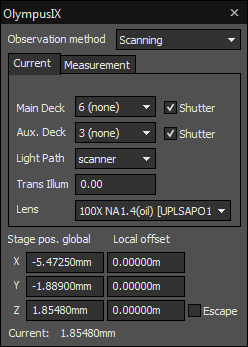
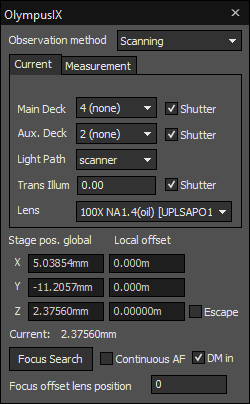
Updated Live Dialogs
* rewrote the Live Dialogs page, introduced some references
* updated screenshots, added screenshot for NikonTi live dialog

diff --git a/docs/hardware/live_dialogs.rst b/docs/hardware/live_dialogs.rst
@@ -5,9 +5,12 @@ Live Dialogs
 In Imspector most imaging settings/parameters may be adjusted in live dialogs including activity of devices as lasers and
 detectors, settings such as laser power or pinhole size and guiding activity along the measurement process such as time
 lapse measurements.
-Single live dialogs can simply be hidden by closing the corresponding live dialogs window! Every live dialog (in addition)
-can be re-opened by clicking on :menuselection:`Tab --> Windows --> Live Dialogs` (:ref:`fig_livedialogs`).
-If none of the live dialogs should be visible, all of them can be hidden using the :kbd:`TAB` button of the keyboard.
+
+Live dialogs can be closed individually and re-opened by opening the list in :menuselection:`Windows --> Live Dialogs` 
+from the main menu and choosing the corresponding dialogs from the list (:ref:`fig_livedialogs`). You can toggle the 
+visibility of all live dialogs (with the exception of the 'Stack display' live dialog) by pressing the :kbd:`TAB`
+button on the keyboard. Different layouts of live dialogs can be saved as workspaces and quickly restored by selecting 
+:menuselection:`Windows --> Save/Load Workspace` from the main menu.
 
 .. _fig_livedialogs:
 .. figure:: /images/hardware/live_dialogs.png
@@ -23,30 +26,36 @@ In the 'Experiment Control' live dialog (:ref:`fig_livedialog_control`) the basi
 
 - Type of scan (xy, yx, yz,xz, xt, xyt, xyz ...)
 - Scan 'Range' in X, Y, Z, T
-- Local and global offsets of the scanner i.e. the displacement from the central axis
-  A local offset (given in the upper half of the panel) applies only for a single measurement.
-  A global offset applies to all further measurements in addition to the local offsets.
+- Local and global offsets of the scanner i.e. the displacement from the central axis. A local offset (given in the 
+  upper half of the panel) applies only the current measurement. A global offset applies to all measurements 
+  in addition to the local offsets.
 - Pixel size ('Pix. Size') and the number of pixels ('# Pixel')
-- Line accumulation settings ('Line Accu')
-- Time steps ('T')
-  Here only consecutive time steps can be selected. For using time steps with breaks in between, the 'TimeLapse'
-  live dialog has to be used.
+- Number of scan lines to accumulate ('Line Accu')
+- Time steps ('T'): the T-axis in ExpControl allows for fast time-dependent scanning, i.e. for FCS measurements. 
+  This will only allow for consecutive time steps. If pauses in between the measurement steps or longer 
+  time scales, the `Time Lapse Live Dialog`_ has to be used.
 - The 'Orientation' parameters allow to change the orientation of the scan field: scan field rotation ('Rot'), tilting of
   the scan field ('Tilt') or rolling of the scan field ('Roll') may be applied.
-- 'Dwell Time'
+- 'Dwell Time' for the individual pixels (only applies if `'Pixel Steps'`__ is deactivated)
+
+__ `Lasers and Channels Live Dialog`_
 
 .. note::
-   The Line Frequency ('Line Freq') is given at the bottom right of the dialog. It may not be changed, but is
-   calculated from the scan parameters above.
+   The Line Frequency ('Line Freq') calculated from the scan parameters is given at the bottom right of the dialog. This is only an indicator 
+   and cannot be changed directly.
 
 **Check boxes**
 
-- 'Lock Aspect': If selected, the aspect ratio of the image ist locked (i.e. ranges).
-- 'Lock pixel Size': if selected, only the size of the pixels and the range may be changed. The # of pixels is adjusted
-  automatically.
-  Note that the range may be rounded, when the change is incompatible to size and range.
-- 'Square pixels': When selected, the pixel sized in x and y are kept being equal. Only one of them may be changed. The
-  other one is changed together with it.
+- 'Lock Aspect': If selected, the aspect ratio of the scan ranges is locked
+- 'Lock pixel Size': if selected, the pixel size will be kept constant and the resolution is adjusted on changes of either 
+  scan range of pixel size. If it is disabled, the resolution will be kept contant and the pixel size will be adjusted automatically instead.
+- 'Square pixels': When selected, the pixel sizes in x and y are kept equal.
+- 'Frame trigger': Allows the start of the measurement to be started on an external signal. The polarity of the signal can be setup in the 
+  :ref:`HardwareConfig`.
+- 'Use Autofocus': Enables the autofocus module of the microscope (if available)
+
+.. note::
+   The scan range may be rounded when the change is incompatible to pixel size and resolution.
 
 .. _fig_livedialog_control:
 .. figure:: /images/hardware/live_dialog_experimental_control.png
@@ -71,30 +80,28 @@ The measurement timing parameters as 'Elapsed Time' for the complete Scan, for t
 Lasers and Channels Live Dialog
 -------------------------------
 
-In the 'Lasers and Channels' live dialog (:ref:`fig_livedialog_lasers`) is one of the most important live dialogs. Here important settings on
-the channels, 'Detectors' and lasers are shown and can be modified. Furthermore the imaging modes 'Pixel Steps',
-'Line Steps', 'Pulse Steps' and 'Pulse Gates' can be activated.
+In the 'Lasers and Channels' live dialog (:ref:`fig_livedialog_lasers`) is one of the most important live dialogs. Here the user will configure 
+the detection channels and lasers used. Furthermore the advanced imaging modes 'Pixel Steps', 'Line Steps', 'Pulse Steps' and 'Pulse Gates' 
+can be activated.
 
 **Detectors**
 
-Detection channels can be activated in the check box on the left side ('Ch1', 'Ch2','Ch3','Ch4').
-In the drop-down menus, the different detectors (APDs/PMTs) can be selected and assigned to the (logical) detection channels.
-If PMT detectors are selected, the gain of the PMT may be adjusted.
-On the right side, further the RESCue mode can be activated.
-Note that up to four logical (detection) channels can be used.
+(Logical) Detection channels can be activated in the check box on the left side ('Ch1', 'Ch2', 'Ch3', 'Ch4'), and the corresponding detectors
+(APDs / PMTs) selected from the drop-down menu. If PMT detectors are selected, the gain of the PMT may be adjusted here. Note that up to four 
+logical (detection) channels can be used.
 
 **Lasers**
 
 In the middle of the live dialog, the excitation, STED and RESOLFT lasers ('L1', 'L2', 'L3', 'L4', 'L5', 'L6', 'L7', 'L8')
-can be activated. Further the power can be adjusted using the %-values on the right. For alignment purposes, the lasers
-can be continuously activated using the check box on the right. (This is only possible if the user is logged in as 'expert'.)
-Note that the %-values are calibrated to show a linear response.
+can be activated and their default powers adjusted using the %-values on the right. For alignment purposes, the lasers
+can be continuously activated using the check box on the right. (This is only possible if the user is logged in as Imspector admin.)
+Note that the %-values are calibrated to show a linear response in laser power.
 
 **Scan Options & Gating**
 
 On the bottom of this live dialog, following scan options can be selected:
-'Pulse Steps', 'Pixel Steps' , 'Line Steps'.
-Further the fluorescence time-gating for the different detection channels can be activated by selecting 'Pulse Gates'.
+'Pulse Steps', 'Pixel Steps' , 'Line Steps'. Further the fluorescence time-gating for the different detection channels can be activated by 
+selecting 'Pulse Gates'. Selecting an option will opens its configuration live dialog.
 
 .. _fig_livedialog_lasers:
 .. figure:: /images/hardware/live_dialog_lasers_channels.png
@@ -107,30 +114,32 @@ Microscope Control Live Dialogs
 -------------------------------
 
 Imspector is able to communicate with the microscope stands of several vendors and all of its motorized components.
-It is able to drive most functions of the microscopy body (:ref:`fig_livedialog_microscope`).
+It is able to drive most functions of the microscopy body (:ref:`fig_livedialog_microscopes`).
 Those functions include:
 
-- switching of the observation mode
-- changing the light path (Light Path)
+- switching of the observation mode: allows fast preset-based switching between different microscope configurations (i.e. for scanning, widefield imaging, etc.)
+- changing the light path between different ports or the eye pieces
 - setting and reading out the stage position (x, y)
 - changing objective lenses
-- setting and reading out the z-position of the objective lens
+- changing filters in filter decks or motorized condensers
+- setting and reading out the focus position of the objective lens (z-axis)
 - switching on/off the auto-focusing device (optional upgrade)
-- brightness of the tungsten lamp in the transillumination path (TransIllum)
-- open/close Shutter
+- brightness of the halogens lamps in the transmitted illumination path (TransIllum) or intensity of fluorescence fiber illumination
+- open/close shutters for illumination or auxillary ports
 
-.. _fig_livedialog_microscope:
-.. figure:: /images/hardware/live_dialog_olympusIX.png
-   :width: 6 cm
+.. _fig_livedialog_microscopes:
+.. figure:: /images/hardware/live_dialog_microscopes.png
+   :width: 13.2 cm
    :align: center
 
-   'OlympusIX' live dialog.
+   Microscope live dialogs for Olympus IX and Nikon Ti eclipse microscopes.
+
 
 Time Lapse Live Dialog
 ----------------------
 
 In the 'TimeLapse' live dialog (:ref:`fig_livedialog_timelapse`), time lapse measurements with breaks in between the individual steps can be devised.
-More advanced settings with unequal steps can be further devised using the 'Sequence Scheduler'.
+More advanced settings with unequal steps can be further devised using the 'Sequence Scheduler'. 'Length' determines the interval, in which the individual measurements are to be taken, i.e. every second. 'Count' gives the number of repetions. If the measurement might be longer than the interval, you may activate 'Ignore timer overflow' to continue the measurement even if it gets out of sync.
 
 .. note::
    The tool-tips on the usage of the sequence scheduler which can be opened using the question mark at the

diff --git a/docs/hardware/config.rst b/docs/hardware/config.rst
@@ -1,5 +1,8 @@
+.. _HardwareConfig:
+
 Hardware Configuration
 ------------------------------
+
 
 .. todo:: Empty
 
